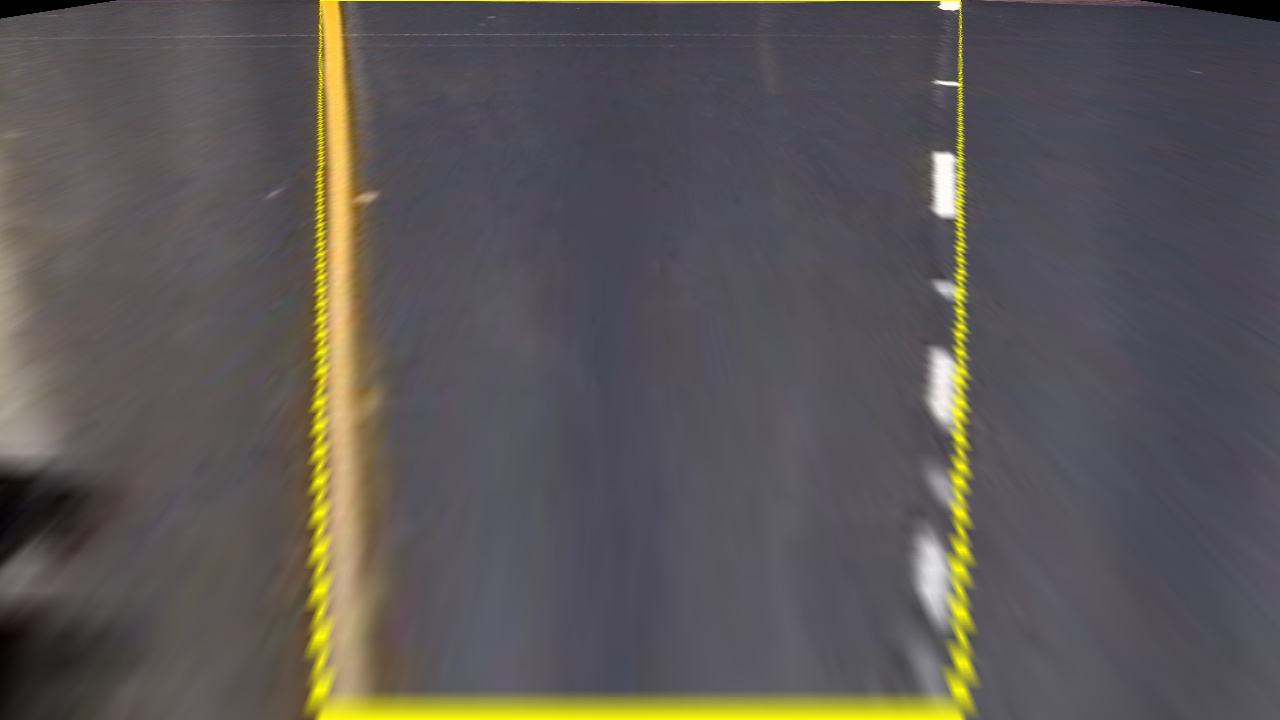
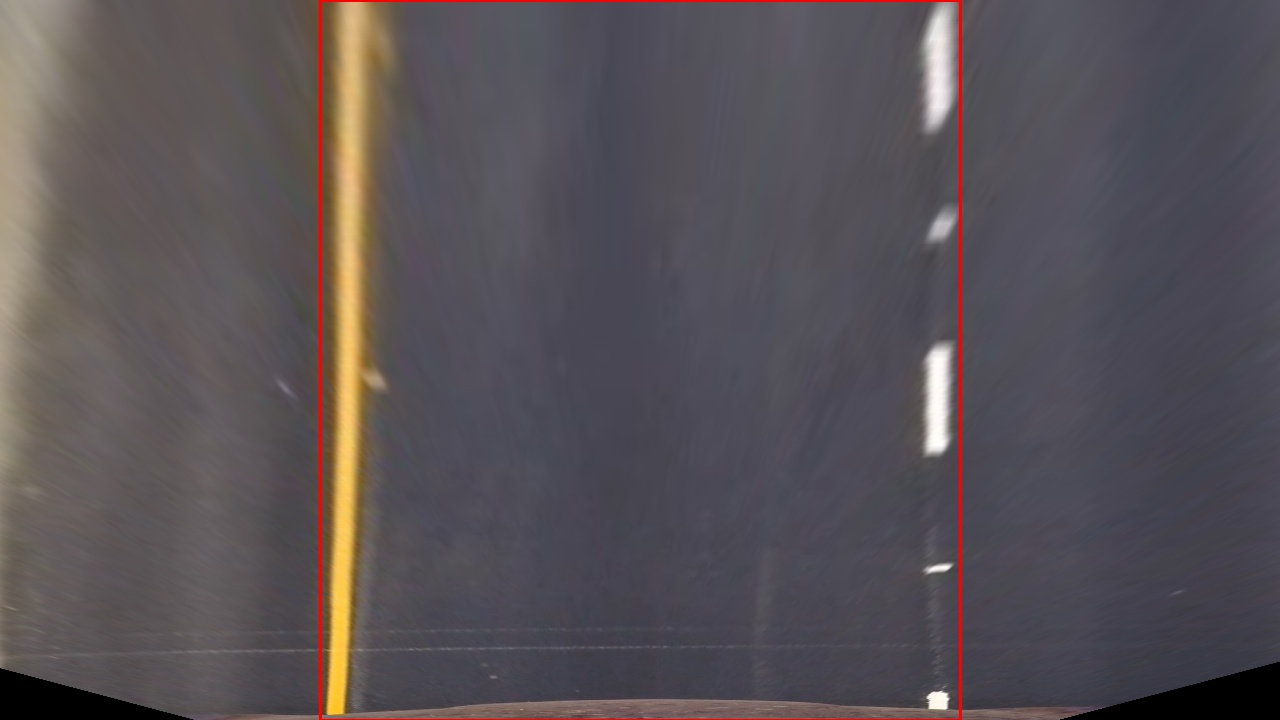
Warped step writeup

diff --git a/perspect_transform.py b/perspect_transform.py
@@ -2,16 +2,9 @@ import pickle
 import cv2
 import numpy as np
 
-# MODIFY THIS FUNCTION TO GENERATE OUTPUT 
-# THAT LOOKS LIKE THE IMAGE ABOVE
 def cal_undistort(img, mtx, dist):
-    # Use cv2.calibrateCamera() and cv2.undistort()  
     undist = cv2.undistort(img, mtx, dist, None, mtx)
     
-    # crop the image
-    #x,y,w,h = roi
-    #undist = undist[y:y+h, x:x+w]
-    #undist = np.copy(img)  # Delete this line
     return undist
 
 # Read in the saved camera matrix and distortion coefficients
@@ -22,8 +15,15 @@ dist = dist_pickle["dist"]
 
 # Read in an image
 img = cv2.imread('test_images/straight_lines1.jpg')
-img_size = (img.shape[1], img.shape[0])
 undistorted = cal_undistort(img, mtx, dist)
+
+img_size = (img.shape[1], img.shape[0])
+
+def warper(img, src, dst):
+    M = cv2.getPerspectiveTransform(src, dst)
+    result = cv2.warpPerspective(img, M, (img.shape[1], img.shape[0]), flags=cv2.INTER_LINEAR)
+    return result
+
 
 src = np.float32(
     [[(img_size[0] / 2) - 65, img_size[1] / 2 + 100],
@@ -31,28 +31,19 @@ src = np.float32(
     [(img_size[0] * 5 / 6) + 70, img_size[1]],
     [(img_size[0] / 2 + 65), img_size[1] / 2 + 100]])
 
-print(src)
-
 dst = np.float32(
     [[(img_size[0] / 4), 0],
     [(img_size[0] / 4), img_size[1]],
     [(img_size[0] * 3 / 4), img_size[1]],
     [(img_size[0] * 3 / 4), 0]])
 
+print(src)
 print(dst)
-cv2.polylines(undistorted,np.int32([src]),True,(0,255,255))
-cv2.polylines(img,np.int32([src]),True,(0,255,255))
 
-M = cv2.getPerspectiveTransform(src, dst)
-warped = cv2.warpPerspective(undistorted, M, img_size, flags=cv2.INTER_LINEAR)
+warped = warper(undistorted, src, dst)
 
-cv2.imshow('With Trapezoid Original',img)
-cv2.waitKey()
-cv2.imshow('With Trapezoid Undistored',undistorted)
-cv2.waitKey()
-cv2.imshow('Warped',warped)
-cv2.waitKey()
-
-cv2.imwrite('output_images/straight_lines1_with_trapezoid.jpg',img)
+cv2.polylines(undistorted,np.int32([src]),True,(0,0,255),2)
+cv2.polylines(warped,np.int32([dst]),True,(0,0,255),2)
+cv2.imwrite('output_images/straight_lines1_with_trapezoid.jpg',undistorted)
 cv2.imwrite('output_images/straight_lines1_warped_trapezoid.jpg',warped)
 

diff --git a/writeup_template.md b/writeup_template.md
@@ -24,7 +24,8 @@ The goals / steps of this project are the following:
 [image2_undistort]: ./output_images/undistorted_test1.jpg "Road Undistorted"
 [image3_input]: ./test_images/signs_vehicles_xygrad.png "Test Image for Binary Thresholding"
 [image3]: ./output_images/bin_thresh_signs_vehicles_xygrad.jpg  "Binary Thresholding Example"
-[image4]: ./examples/warped_straight_lines.jpg "Warp Example"
+[image4_undistorted]: ./output_images/straight_lines1_with_trapezoid.jpg "Undistorted image with src points drawn"
+[image4_warped]: ./output_images/straight_lines1_warped_trapezoid "Warped results with dst points drawn"
 [image5]: ./examples/color_fit_lines.jpg "Fit Visual"
 [image6]: ./examples/example_output.jpg "Output"
 [video1]: ./project_video.mp4 "Video"
@@ -86,14 +87,15 @@ I mostly used the example code in the lessons and did a combination of color and
 
 #### 3. Describe how (and identify where in your code) you performed a perspective transform and provide an example of a transformed image.
 
-The code for my perspective transform includes a function called `warper()`, which appears in lines 1 through 8 in the file `example.py` (output_images/examples/example.py) (or, for example, in the 3rd code cell of the IPython notebook).  The `warper()` function takes as inputs an image (`img`), as well as source (`src`) and destination (`dst`) points.  I chose the hardcode the source and destination points in the following manner:
+The code for my perspective transform includes a function called `warper()`, which appears in lines 22 through 25 in the file `perspect_transform.py`.  The `warper()` function takes as inputs an image (`img`), as well as source (`src`) and destination (`dst`) points.  I chose the hardcode the source and destination points in the following manner:
 
 ```python
 src = np.float32(
-    [[(img_size[0] / 2) - 55, img_size[1] / 2 + 100],
-    [((img_size[0] / 6) - 10), img_size[1]],
-    [(img_size[0] * 5 / 6) + 60, img_size[1]],
-    [(img_size[0] / 2 + 55), img_size[1] / 2 + 100]])
+    [[(img_size[0] / 2) - 65, img_size[1] / 2 + 100],
+    [((img_size[0] / 6) - 30), img_size[1]],
+    [(img_size[0] * 5 / 6) + 70, img_size[1]],
+    [(img_size[0] / 2 + 65), img_size[1] / 2 + 100]])
+
 dst = np.float32(
     [[(img_size[0] / 4), 0],
     [(img_size[0] / 4), img_size[1]],
@@ -105,14 +107,21 @@ This resulted in the following source and destination points:
 
 | Source        | Destination   | 
 |:-------------:|:-------------:| 
-| 585, 460      | 320, 0        | 
-| 203, 720      | 320, 720      |
-| 1127, 720     | 960, 720      |
-| 695, 460      | 960, 0        |
+| 575, 460      | 320, 0        | 
+| 183, 720      | 320, 720      |
+| 1137, 720     | 960, 720      |
+| 705, 460      | 960, 0        |
 
 I verified that my perspective transform was working as expected by drawing the `src` and `dst` points onto a test image and its warped counterpart to verify that the lines appear parallel in the warped image.
 
-![alt text][image4]
+##### Undistorted image with src points drawn
+
+![alt text][image4_undistorted]
+
+##### Warped results with dst points drawn
+
+![alt text][image4_warped]
+
 
 #### 4. Describe how (and identify where in your code) you identified lane-line pixels and fit their positions with a polynomial?
 
